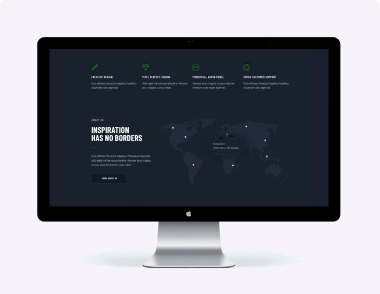
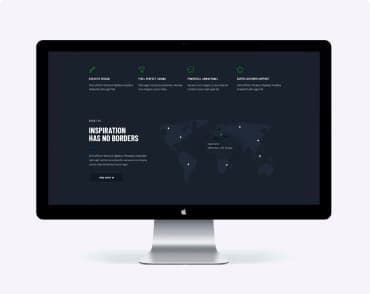
Добавлены и оптивизированы все изображения
в футтере сдалал все иконки и добавила самолетик

diff --git a/index.html b/index.html
@@ -142,9 +142,9 @@
             <li class="member">
               <img
                 class="team-photo"
-                src="./images/Photo_Contacts/john_smith.jpg"
+                src="./images/Photo_Contacts/john-smith.jpg"
                 alt="Фото Джон Смит"
-                width="278"
+                width="270"
                 height="260"
               />
               <h3>John Smith</h3>
@@ -175,9 +175,9 @@
             <li class="member">
               <img
                 class="team-photo"
-                src="./images/Photo_Contacts/marta_stewart.jpg"
+                src="./images/Photo_Contacts/marta-stewart.jpg"
                 alt="Фото Марта Стюарт"
-                width="278"
+                width="270"
                 height="260"
               />
               <h3>Marta Stewart</h3>
@@ -208,9 +208,9 @@
             <li class="member">
               <img
                 class="team-photo"
-                src="./images/Photo_Contacts/robert_jakis.jpg"
+                src="./images/Photo_Contacts/robert-jakis.jpg"
                 alt="Фото Роберт Якис"
-                width="278"
+                width="270"
                 height="260"
               />
               <h3>Robert Jakis</h3>
@@ -241,9 +241,9 @@
             <li class="member">
               <img
                 class="team-photo"
-                src="./images/Photo_Contacts/martin_doe.jpg"
+                src="./images/Photo_Contacts/martin-doe.jpg"
                 alt="Фото Мартин Дое"
-                width="278"
+                width="270"
                 height="260"
               />
               <h3>Martin Doe</h3>
@@ -339,25 +339,17 @@
           <h2 class="is-hidden">Ссылки на социальные сети студии</h2>
           <h3 class="title"><b>присоединяйтесь</b></h3>
           <ul class="list">
-            <li>
-              <a href="№" aria-label="Ссылка на Instagram" target="_blank"
-                >Instagram</a
-              >
+            <li class="socials-item instagram">
+              <a href="№" aria-label="Ссылка на Instagram" target="_blank"></a>
             </li>
-            <li>
-              <a href="№" aria-label="Ссылка на Twitter" target="_blank"
-                >Twitter</a
-              >
+            <li class="socials-item twitter">
+              <a href="№" aria-label="Ссылка на Twitter" target="_blank"></a>
             </li>
-            <li>
-              <a href="№" aria-label="Ссылка на Facebook" target="_blank"
-                >Facebook</a
-              >
+            <li class="socials-item facebook">
+              <a href="№" aria-label="Ссылка на Facebook" target="_blank"></a>
             </li>
-            <li>
-              <a href="№" aria-label="Ссылка на LinkedIn" target="_blank"
-                >LinkedIn</a
-              >
+            <li class="socials-item linkedin">
+              <a href="№" aria-label="Ссылка на LinkedIn" target="_blank"></a>
             </li>
           </ul>
         </div>
@@ -365,7 +357,7 @@
         <div class="subscribe">
           <h2 class="is-hidden">Форма подписки</h2>
           <h3 class="title"><b>Подпишитесь на рассылку</b></h3>
-          <a class="link-button" href="#">Подписаться</a>
+          <a class="link-button subscribe-icon" href="#">Подписаться</a>
         </div>
       </div>
       <p class="text-copyright container">

diff --git a/css/style.css b/css/style.css
@@ -164,7 +164,6 @@ img {
 /*Стили для Героя*/
 
 .hero {
-  display: flex-block;
   text-align: center;
   max-width: 1600px;
   height: 600px;
@@ -252,7 +251,9 @@ img {
 /*Стили Направления разработки*/
 .services-list {
   display: flex;
-  margin-top: 50px;
+}
+.services-list .item {
+  width: 370px;
 }
 .services-list .item + .item {
   margin-left: 30px;
@@ -269,11 +270,24 @@ img {
 }
 
 /*Стили для Наша команда*/
+.team {
+  background: var(--secondary-background-color);
+}
+
 .team-list {
   display: flex;
+  justify-content: center;
 }
 .team-list .member + .member {
   margin-left: 30px;
+}
+
+.member {
+  width: 270px;
+  box-shadow: 0px 2px 1px rgba(0, 0, 0, 0.2), 0px 1px 1px rgba(0, 0, 0, 0.14),
+    0px 1px 3px rgba(0, 0, 0, 0.12);
+  border-radius: 4px;
+  overflow: hidden;
 }
 
 .team-list h3 {
@@ -304,6 +318,7 @@ img {
 }
 .team-socials {
   display: flex;
+  justify-content: center;
   margin-bottom: 24px;
 }
 /*Стили для секции постоянные клиенты*/
@@ -325,7 +340,7 @@ img {
   padding-bottom: 21px;
 
   /*применила ширину и высоту для позиционирования будет понятно, как с бэкграунд и рамками - сделаю правильно*/
-  width: 175px;
+  width: 170px;
   height: 90px;
 }
 
@@ -337,6 +352,10 @@ footer {
 
 footer .title {
   margin-bottom: 21px;
+}
+b {
+  font-weight: 700;
+  font-size: 14px;
 }
 .footer-flex {
   display: flex;
@@ -377,17 +396,63 @@ footer .logo {
 /*Footer social media*/
 
 .socials .list {
-  /*так как пока бэк-граунд картинок, не могу отображение сделать точно, как на макете*/
   display: flex;
+  align-content: space-between;
+  min-width: 296px;
 }
-.socials .title,
-.subscribe .title {
-  margin-bottom: 21px;
+.socials-item:not(:nth-last-child(1)) {
+  margin-right: 10px;
+}
+.socials-item::before {
+  content: '';
+  display: block;
+  height: 44px;
+  width: 44px;
+  padding: 12px;
+
+  background-repeat: no-repeat;
+  background-position: center;
+
+  background-color: rgba(255, 255, 255, 0.1);
+  border-radius: 50%;
+}
+.instagram::before {
+  background-image: url(../images/footer/instagram.svg);
+}
+.twitter::before {
+  background-image: url(../images/footer/twitter.svg);
+}
+.facebook::before {
+  background-image: url(../images/footer/facebook.svg);
+}
+.linkedin::before {
+  background-image: url(../images/footer/linkedin.svg);
+}
+
+.socials-item:hover::before,
+.socials-item:focus::before {
+  background-color: var(--primary-hover-color);
+  cursor: pointer;
 }
 
 /*Footer signup*/
 .subscribe {
   margin-left: auto;
+}
+.subscribe-icon {
+  padding-left: 29px;
+}
+.subscribe-icon::after {
+  content: '';
+  display: inline-block;
+  height: 24px;
+  width: 24px;
+  margin-left: 10px;
+
+  background-repeat: no-repeat;
+  background-position: center;
+
+  background-image: url(../images/footer/icon-send.svg);
 }
 /*Footer copyright*/
 .text-copyright {
@@ -460,8 +525,6 @@ button:focus {
 
   border-bottom-left-radius: 5px;
   border-bottom-right-radius: 5px;
-
-  background-color: tomato;
 }
 .work-link {
   display: block;

diff --git a/portfolio.html b/portfolio.html
@@ -22,7 +22,7 @@
           <a class="logo" href="./index.html"> <span>Web</span> Studio </a>
           <ul class="menu-list">
             <li class="item">
-              <a class="menu-link " href="./index.html">Студия</a>
+              <a class="menu-link" href="./index.html">Студия</a>
             </li>
             <li class="item">
               <a class="menu-link current" href="./portfolio.html">Портфолио</a>
@@ -259,40 +259,32 @@
         <!--Социальные сети-->
         <div class="socials">
           <h2 class="is-hidden">Ссылки на социальные сети студии</h2>
-          <h3 class="title"><em>присоединяйтесь</em></h3>
+          <h3 class="title"><b>присоединяйтесь</b></h3>
           <ul class="list">
-            <li>
-              <a href="№" aria-label="Ссылка на Instagram" target="_blank"
-                >Instagram</a
-              >
+            <li class="socials-item instagram">
+              <a href="№" aria-label="Ссылка на Instagram" target="_blank"></a>
             </li>
-            <li>
-              <a href="№" aria-label="Ссылка на Twitter" target="_blank"
-                >Twitter</a
-              >
+            <li class="socials-item twitter">
+              <a href="№" aria-label="Ссылка на Twitter" target="_blank"></a>
             </li>
-            <li>
-              <a href="№" aria-label="Ссылка на Facebook" target="_blank"
-                >Facebook</a
-              >
+            <li class="socials-item facebook">
+              <a href="№" aria-label="Ссылка на Facebook" target="_blank"></a>
             </li>
-            <li>
-              <a href="№" aria-label="Ссылка на LinkedIn" target="_blank"
-                >LinkedIn</a
-              >
+            <li class="socials-item linkedin">
+              <a href="№" aria-label="Ссылка на LinkedIn" target="_blank"></a>
             </li>
           </ul>
         </div>
         <!--Форма подписки-->
         <div class="subscribe">
           <h2 class="is-hidden">Форма подписки</h2>
-          <h3 class="title"><em>Подпишитесь на рассылку</em></h3>
-          <a class="link-button" href="#">Подписаться</a>
+          <h3 class="title"><b>Подпишитесь на рассылку</b></h3>
+          <a class="link-button subscribe-icon" href="#">Подписаться</a>
         </div>
       </div>
-      <div class="copyright container">
-        <p class="text">2020 | Developed by GoIT Students</p>
-      </div>
+      <p class="text-copyright container">
+        2020 | Developed by GoIT Students
+      </p>
     </footer>
   </body>
 </html>
